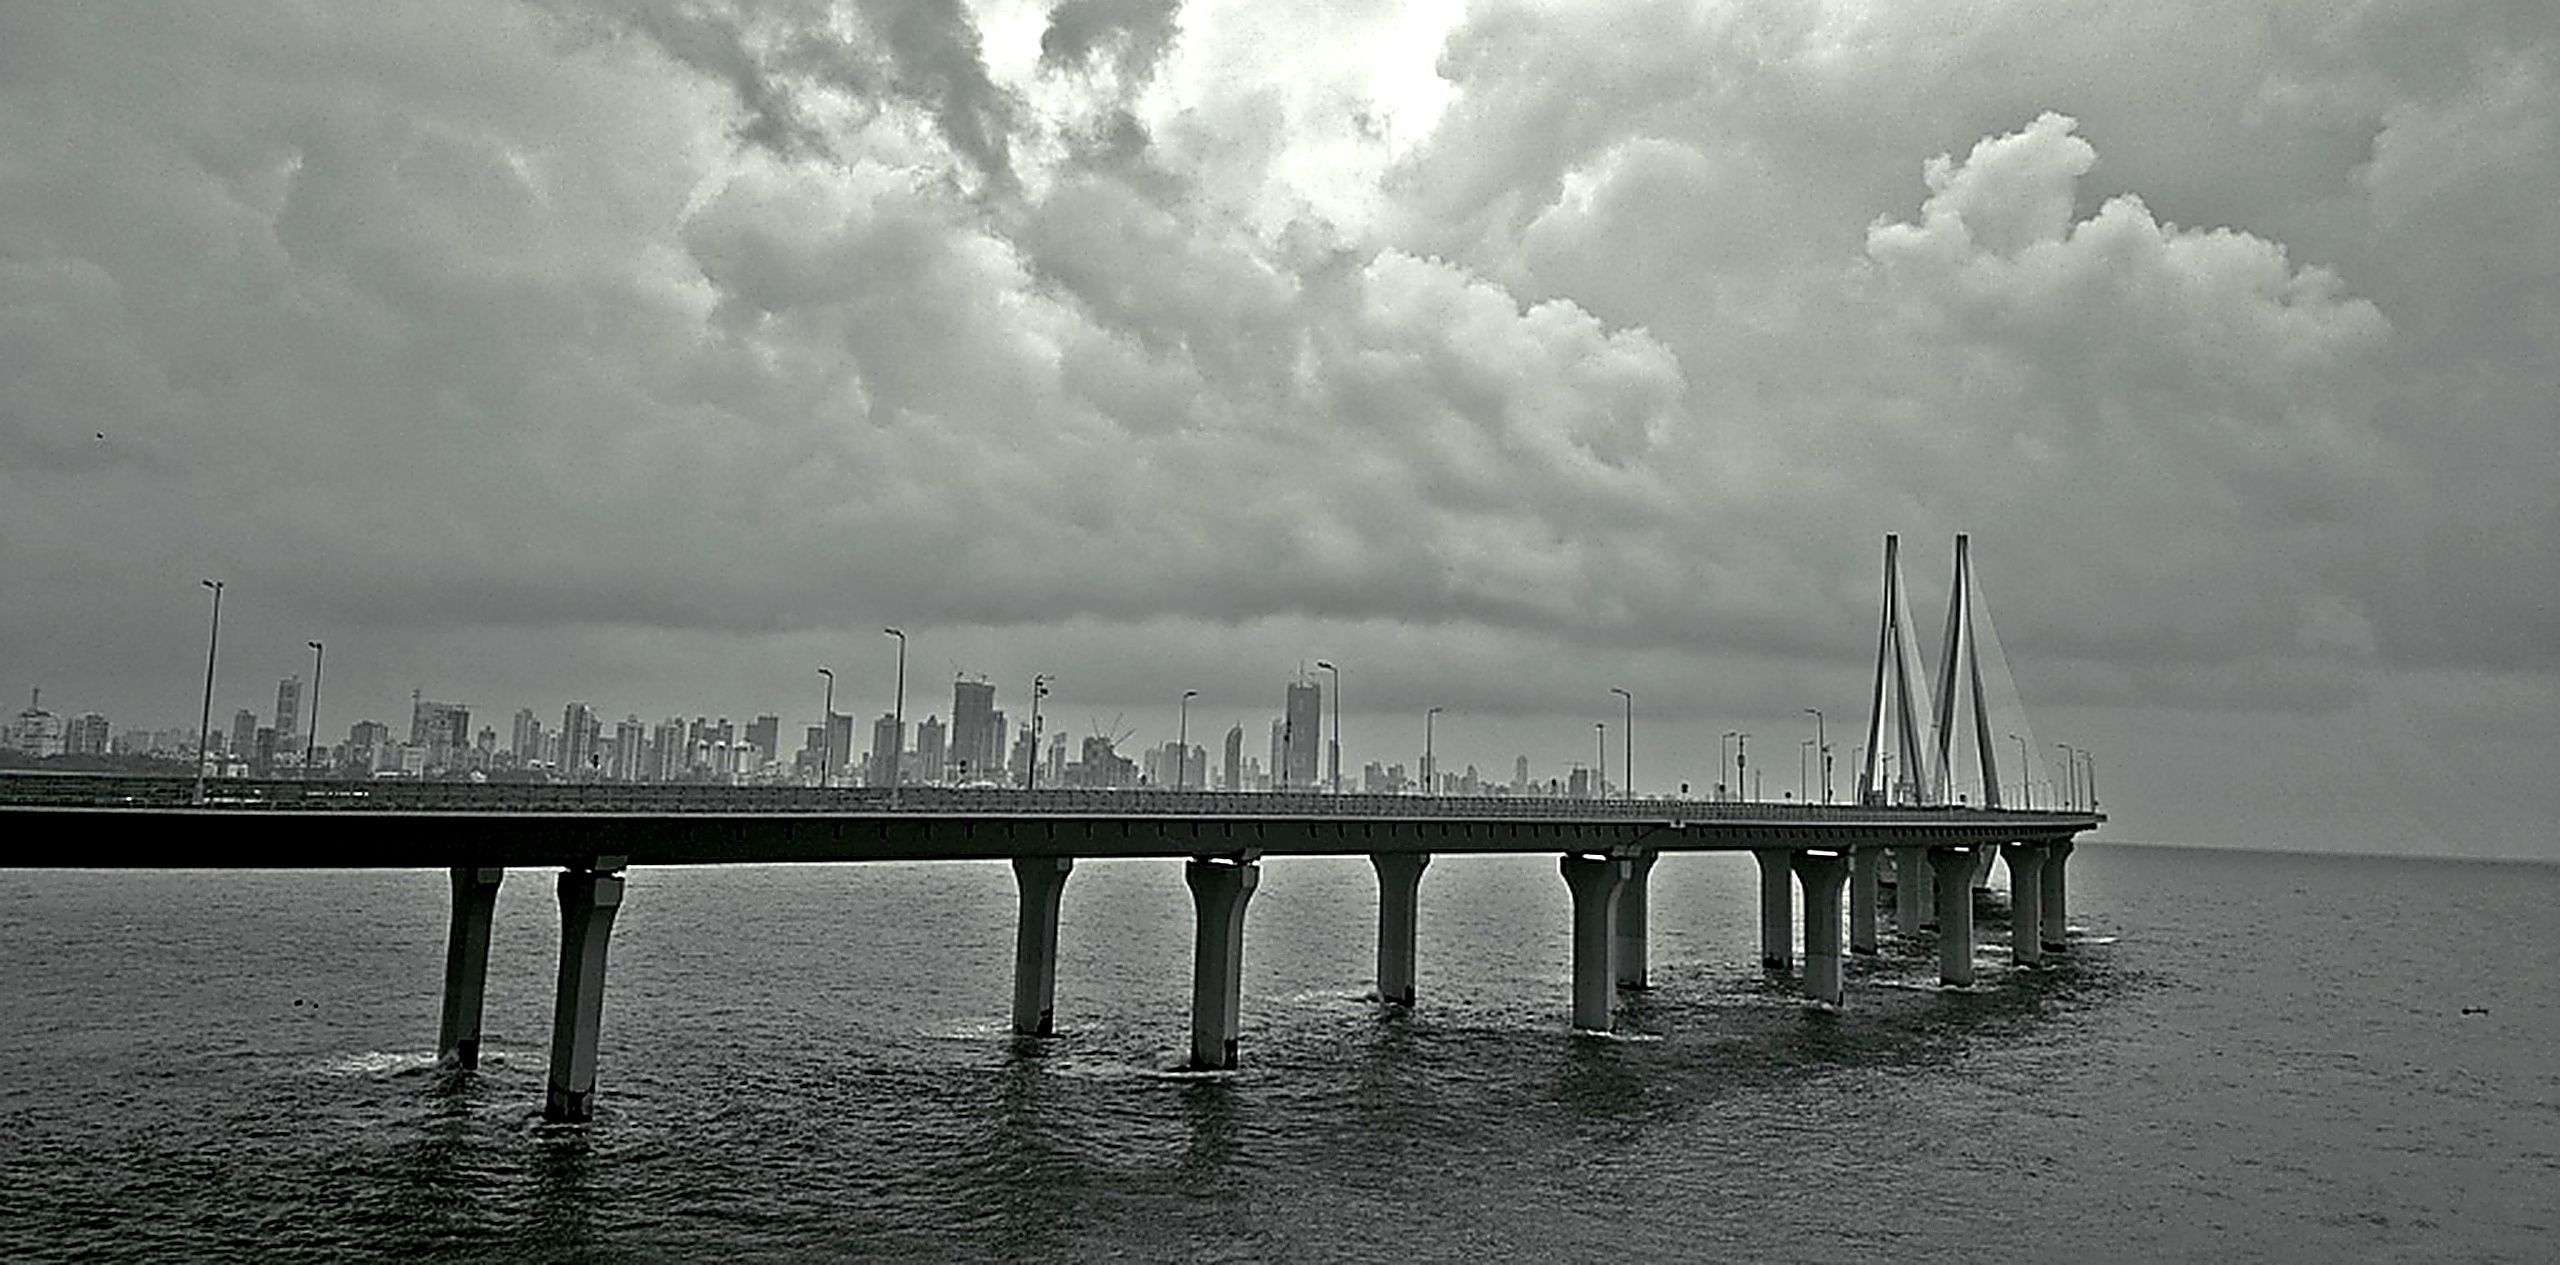
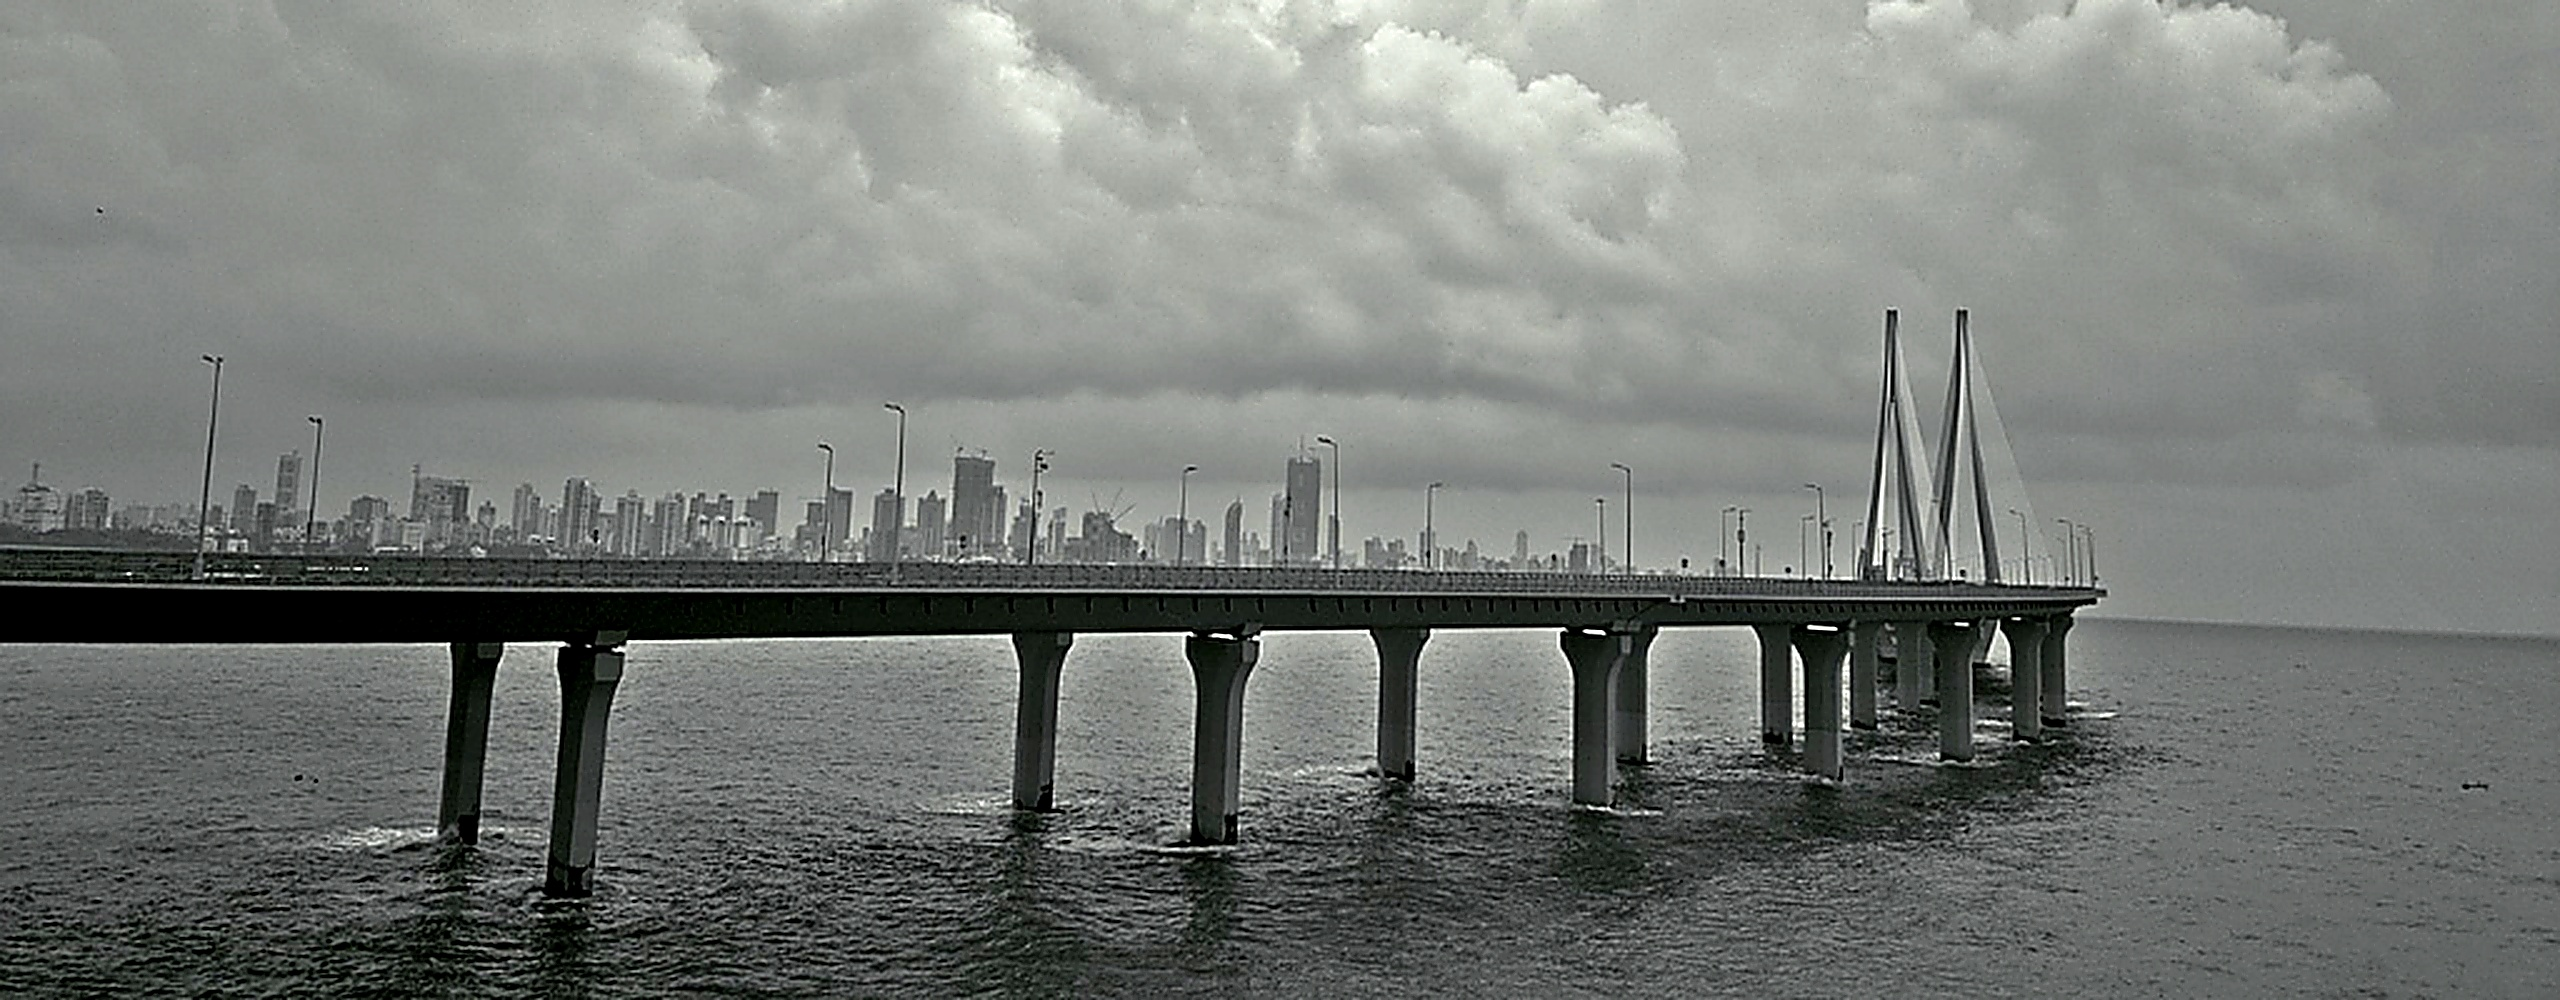
fix: reframe Sea Link hero image dead-center, fix CSS syntax error, and perfectly align Company Overview with dedicated blueprint frame and balanced bottom metrics bar

diff --git a/assets/styles.css b/assets/styles.css
@@ -804,84 +804,59 @@ h1, h2, h3, h4, h5, h6 {
 .faq-answer p { padding: 0 0 22px; color: var(--clr-muted); font-size: .98rem; font-family: var(--font-body); line-height: 1.65; max-width: 720px; }
 
 /* ==========================================================================
-   ABOUT PAGE - COMPANY OVERVIEW WITH ARCHITECTURAL BLUEPRINT BACKGROUND
+   ABOUT PAGE - COMPANY OVERVIEW (Symmetrical Grid & Showcase Frame)
    ========================================================================== */
 .overview-section {
   position: relative;
   background-color: #ffffff;
-  overflow: hidden;
-  padding: 96px 0;
+  padding: 96px 0 88px;
 }
 .overview-wrap {
-  position: relative;
   max-width: var(--container-max);
   margin: 0 auto;
   padding: 0 32px;
 }
-.overview-bg-blueprint {
-  position: absolute;
-  top: 50%;
-  right: 24px;
-  transform: translateY(-50%);
-  width: 54%;
-  max-width: 780px;
-  height: 94%;
-  max-height: 520px;
-  background-repeat: no-repeat;
-  background-position: center right;
-  background-size: contain;
-  pointer-events: none;
-  z-index: 1;
-  opacity: 0.90;
-  -webkit-mask-image: linear-gradient(to right, transparent 0%, rgba(0, 0, 0, 0.20) 10%, rgba(0, 0, 0, 0.85) 32%, rgba(0, 0, 0, 1) 100%);
-  mask-image: linear-gradient(to right, transparent 0%, rgba(0, 0, 0, 0.20) 10%, rgba(0, 0, 0, 0.85) 32%, rgba(0, 0, 0, 1) 100%);
-}
 .overview-content-grid {
   display: grid;
-  grid-template-columns: 1.15fr 0.85fr;
+  grid-template-columns: 1fr 1fr;
   gap: 56px;
   align-items: stretch;
-  position: relative;
-  z-index: 2;
 }
 .overview-text-col {
   display: flex;
   flex-direction: column;
+  justify-content: center;
 }
-.overview-stats-col {
+.overview-visual-col {
   display: flex;
-  flex-direction: column;
-  justify-content: flex-end;
-  min-height: 100%;
+  align-items: center;
+  justify-content: center;
 }
-.overview-stats-card {
-  display: grid;
-  grid-template-columns: repeat(3, 1fr);
-  gap: 16px;
-  background: rgba(255, 255, 255, 0.88);
-  backdrop-filter: blur(12px);
-  -webkit-backdrop-filter: blur(12px);
-  border: 1px solid rgba(5, 38, 77, 0.10);
+.overview-blueprint-frame {
+  width: 100%;
+  height: 100%;
+  min-height: 380px;
+  background: #ffffff;
+  border: 1px solid rgba(5, 38, 77, 0.12);
   border-radius: 12px;
-  padding: 24px 18px;
-  box-shadow: 0 10px 30px rgba(5, 38, 77, 0.05);
-  text-align: center;
+  box-shadow: 0 10px 32px rgba(5, 38, 77, 0.05);
+  display: flex;
+  align-items: center;
+  justify-content: center;
+  padding: 18px;
+  overflow: hidden;
+  transition: transform 0.35s ease, box-shadow 0.35s ease, border-color 0.35s ease;
 }
-.overview-stat-item h3 {
-  font-family: var(--font-heading);
-  font-size: 2.5rem;
-  color: var(--color-navy);
-  font-weight: 700;
-  line-height: 1.1;
-  margin-bottom: 4px;
+.overview-blueprint-frame:hover {
+  transform: translateY(-3px);
+  box-shadow: 0 16px 40px rgba(5, 38, 77, 0.09);
+  border-color: rgba(245, 179, 53, 0.4);
 }
-.overview-stat-item p {
-  color: var(--clr-muted);
-  font-family: var(--font-heading);
-  font-size: 0.82rem;
-  text-transform: uppercase;
-  letter-spacing: 0.05em;
-  line-height: 1.35;
+.overview-blueprint-img {
+  width: 100%;
+  height: 100%;
+  object-fit: contain;
+  display: block;
 }
 .founder-line {
   font-family: var(--font-heading);
@@ -898,32 +873,72 @@ h1, h2, h3, h4, h5, h6 {
 .founder-line a:hover {
   color: var(--color-gold);
 }
+
+/* Overview Bottom Metrics Bar */
+.overview-metrics-bar {
+  display: grid;
+  grid-template-columns: 1fr auto 1fr auto 1fr;
+  align-items: center;
+  margin-top: 56px;
+  padding: 36px 32px;
+  background: #fbfbfd;
+  border: 1px solid rgba(5, 38, 77, 0.08);
+  border-radius: 14px;
+  box-shadow: 0 8px 24px rgba(5, 38, 77, 0.03);
+}
+.overview-metric-item {
+  text-align: center;
+}
+.overview-metric-item .metric-number-wrap {
+  display: inline-flex;
+  align-items: baseline;
+  justify-content: center;
+}
+.overview-metric-item h3 {
+  font-family: var(--font-heading);
+  font-size: 2.75rem;
+  color: var(--color-navy);
+  font-weight: 700;
+  line-height: 1.1;
+  margin-bottom: 4px;
+}
+.overview-metric-item .metric-label {
+  color: var(--clr-muted);
+  font-family: var(--font-heading);
+  font-size: 0.85rem;
+  text-transform: uppercase;
+  letter-spacing: 0.06em;
+  font-weight: 600;
+  margin-top: 4px;
+}
+.overview-metric-divider {
+  width: 1px;
+  height: 52px;
+  background: rgba(5, 38, 77, 0.12);
+}
+
 @media (max-width: 960px) {
-  .overview-bg-blueprint {
-    width: 100%;
-    max-width: none;
-    height: 100%;
-    top: 0;
-    right: 0;
-    transform: none;
-    opacity: 0.16;
-    -webkit-mask-image: none;
-    mask-image: none;
-  }
   .overview-content-grid {
     grid-template-columns: 1fr;
     gap: 40px;
   }
-  .overview-stats-col {
-    justify-content: flex-start;
+  .overview-blueprint-frame {
+    min-height: 280px;
+  }
+  .overview-metrics-bar {
+    grid-template-columns: 1fr;
+    gap: 28px;
+    padding: 28px 20px;
+  }
+  .overview-metric-divider {
+    display: none;
   }
 }
 @media (max-width: 600px) {
   .overview-section { padding: 64px 0; }
-  .overview-stats-card {
-    grid-template-columns: 1fr;
-    gap: 18px;
-    padding: 20px;
+  .overview-blueprint-frame {
+    min-height: 220px;
+    padding: 10px;
   }
 }
 

diff --git a/about.html b/about.html
@@ -12,7 +12,7 @@
 <style>
   :root{ --page-hero-img: url('assets/about-hero-bg.jpg'); }
   .page-hero {
-    background: linear-gradient(180deg, rgba(5, 20, 38, 0.08) 0%, rgba(5, 20, 38, 0.20) 50%, rgba(5, 20, 38, 0.38) 100%) 0%, rgba(5, 20, 38, 0.58) 100%), url('assets/about-hero-bg.jpg') no-repeat center bottom / cover !important;
+    background: linear-gradient(180deg, rgba(5, 20, 38, 0.10) 0%, rgba(5, 20, 38, 0.22) 50%, rgba(5, 20, 38, 0.40) 100%), url('assets/about-hero-bg.jpg') no-repeat center center / cover !important;
   }
 </style>
 </head>
@@ -87,8 +87,8 @@
 <!-- COMPANY OVERVIEW -->
 <section class="content-section overview-section reveal" id="overview">
   <div class="wrap overview-wrap">
-    <div class="overview-bg-blueprint" style="background-image: url('assets/story-bg.png');" aria-hidden="true"></div>
     <div class="overview-content-grid">
+      <!-- Left Column: Story Narrative -->
       <div class="overview-text-col">
         <span class="eyebrow-sm">Company Overview</span>
         <h2 class="h2 h2--sub">Designing Spaces. Building Trust. Shaping Tomorrow.</h2>
@@ -96,21 +96,36 @@
         <p class="lead-text">Our practice is built on the belief that exceptional architecture is measured by the value it creates — for the people who live and work in it, and for the client who commissions it. We embed regulatory compliance and statutory approval strategy into the design process from day one, so projects move faster, cost less to build, and still deliver on design excellence.</p>
         <p class="founder-line">Founder — <a href="https://www.linkedin.com/in/nikhil-dikshit-53994839/" target="_blank" rel="noopener"><strong>Nikhil Dikshit</strong></a></p>
       </div>
-      <div class="overview-stats-col">
-        <div class="overview-stats-card">
-          <div class="overview-stat-item">
-            <h3 class="counter-number" data-target="40">0</h3>
-            <p>Years of Experience</p>
-          </div>
-          <div class="overview-stat-item">
-            <h3 class="counter-number" data-target="500">0</h3>
-            <p>Projects Delivered</p>
-          </div>
-          <div class="overview-stat-item">
-            <h3 class="counter-number" data-target="100">0</h3>
-            <p>Happy Clients</p>
-          </div>
+
+      <!-- Right Column: Architectural Blueprint Showcase -->
+      <div class="overview-visual-col">
+        <div class="overview-blueprint-frame">
+          <img src="assets/story-bg.png" alt="Bandra-Worli Sea Link &amp; Mumbai Skyline Architectural Blueprint" class="overview-blueprint-img" width="1400" height="620">
         </div>
+      </div>
+    </div>
+
+    <!-- Bottom Row: Clean Properly Aligned Metrics Bar -->
+    <div class="overview-metrics-bar">
+      <div class="overview-metric-item">
+        <div class="metric-number-wrap">
+          <h3 class="counter-number" data-target="40">0</h3>
+        </div>
+        <p class="metric-label">Years of Experience</p>
+      </div>
+      <div class="overview-metric-divider"></div>
+      <div class="overview-metric-item">
+        <div class="metric-number-wrap">
+          <h3 class="counter-number" data-target="500">0</h3>
+        </div>
+        <p class="metric-label">Projects Delivered</p>
+      </div>
+      <div class="overview-metric-divider"></div>
+      <div class="overview-metric-item">
+        <div class="metric-number-wrap">
+          <h3 class="counter-number" data-target="100">0</h3>
+        </div>
+        <p class="metric-label">Happy Clients</p>
       </div>
     </div>
   </div>

diff --git a/architectural-design.html b/architectural-design.html
@@ -12,7 +12,7 @@
 <style>
   :root{ --page-hero-img: url('assets/architectural-design-hero.jpg'); }
   .page-hero {
-    background: linear-gradient(180deg, rgba(5, 20, 38, 0.08) 0%, rgba(5, 20, 38, 0.20) 50%, rgba(5, 20, 38, 0.38) 100%) 0%, rgba(5, 20, 38, 0.60) 100%), url('assets/architectural-design-hero.jpg') no-repeat center center / cover !important;
+    background: linear-gradient(180deg, rgba(5, 20, 38, 0.10) 0%, rgba(5, 20, 38, 0.22) 50%, rgba(5, 20, 38, 0.40) 100%), url('assets/architectural-design-hero.jpg') no-repeat center center / cover !important;
   }
 </style>
 </head>

diff --git a/interior-design.html b/interior-design.html
@@ -12,7 +12,7 @@
 <style>
   :root{ --page-hero-img: url('assets/expertise-interior.png'); }
   .page-hero {
-    background: linear-gradient(180deg, rgba(5, 20, 38, 0.08) 0%, rgba(5, 20, 38, 0.20) 50%, rgba(5, 20, 38, 0.38) 100%) 0%, rgba(5, 20, 38, 0.60) 100%), url('assets/expertise-interior.png') no-repeat center center / cover !important;
+    background: linear-gradient(180deg, rgba(5, 20, 38, 0.10) 0%, rgba(5, 20, 38, 0.22) 50%, rgba(5, 20, 38, 0.40) 100%), url('assets/expertise-interior.png') no-repeat center center / cover !important;
   }
 </style>
 </head>

diff --git a/liaison.html b/liaison.html
@@ -12,7 +12,7 @@
 <style>
   :root{ --page-hero-img: url('assets/expertise-liaison.jpg'); }
   .page-hero {
-    background: linear-gradient(180deg, rgba(5, 20, 38, 0.08) 0%, rgba(5, 20, 38, 0.20) 50%, rgba(5, 20, 38, 0.38) 100%) 0%, rgba(5, 20, 38, 0.60) 100%), url('assets/expertise-liaison.jpg') no-repeat center center / cover !important;
+    background: linear-gradient(180deg, rgba(5, 20, 38, 0.10) 0%, rgba(5, 20, 38, 0.22) 50%, rgba(5, 20, 38, 0.40) 100%), url('assets/expertise-liaison.jpg') no-repeat center center / cover !important;
   }
 </style>
 </head>

diff --git a/careers.html b/careers.html
@@ -12,7 +12,7 @@
 <style>
   :root{ --page-hero-img: url('assets/careers-hero-bg.jpg'); }
   .page-hero {
-    background: linear-gradient(180deg, rgba(5, 20, 38, 0.08) 0%, rgba(5, 20, 38, 0.20) 50%, rgba(5, 20, 38, 0.38) 100%) 0%, rgba(5, 20, 38, 0.60) 100%), url('assets/careers-hero-bg.jpg') no-repeat center center / cover !important;
+    background: linear-gradient(180deg, rgba(5, 20, 38, 0.10) 0%, rgba(5, 20, 38, 0.22) 50%, rgba(5, 20, 38, 0.40) 100%), url('assets/careers-hero-bg.jpg') no-repeat center center / cover !important;
   }
 </style>
 </head>

diff --git a/pmc.html b/pmc.html
@@ -12,7 +12,7 @@
 <style>
   :root{ --page-hero-img: url('assets/expertise-pmc.jpeg'); }
   .page-hero {
-    background: linear-gradient(180deg, rgba(5, 20, 38, 0.08) 0%, rgba(5, 20, 38, 0.20) 50%, rgba(5, 20, 38, 0.38) 100%) 0%, rgba(5, 20, 38, 0.60) 100%), url('assets/expertise-pmc.jpeg') no-repeat center center / cover !important;
+    background: linear-gradient(180deg, rgba(5, 20, 38, 0.10) 0%, rgba(5, 20, 38, 0.22) 50%, rgba(5, 20, 38, 0.40) 100%), url('assets/expertise-pmc.jpeg') no-repeat center center / cover !important;
   }
 </style>
 </head>

diff --git a/contact.html b/contact.html
@@ -12,7 +12,7 @@
 <style>
   :root{ --page-hero-img: url('assets/hero-bg.png'); }
   .page-hero {
-    background: linear-gradient(180deg, rgba(5, 20, 38, 0.08) 0%, rgba(5, 20, 38, 0.20) 50%, rgba(5, 20, 38, 0.38) 100%) 0%, rgba(5, 20, 38, 0.60) 100%), url('assets/hero-bg.png') no-repeat center center / cover !important;
+    background: linear-gradient(180deg, rgba(5, 20, 38, 0.10) 0%, rgba(5, 20, 38, 0.22) 50%, rgba(5, 20, 38, 0.40) 100%), url('assets/hero-bg.png') no-repeat center center / cover !important;
   }
 </style>
 </head>

diff --git a/portfolio.html b/portfolio.html
@@ -12,7 +12,7 @@
 <style>
   :root{ --page-hero-img: url('assets/cta-bg.png'); }
   .page-hero {
-    background: linear-gradient(180deg, rgba(5, 20, 38, 0.08) 0%, rgba(5, 20, 38, 0.20) 50%, rgba(5, 20, 38, 0.38) 100%) 0%, rgba(5, 20, 38, 0.60) 100%), url('assets/cta-bg.png') no-repeat center center / cover !important;
+    background: linear-gradient(180deg, rgba(5, 20, 38, 0.10) 0%, rgba(5, 20, 38, 0.22) 50%, rgba(5, 20, 38, 0.40) 100%), url('assets/cta-bg.png') no-repeat center center / cover !important;
   }
 </style>
 </head>
